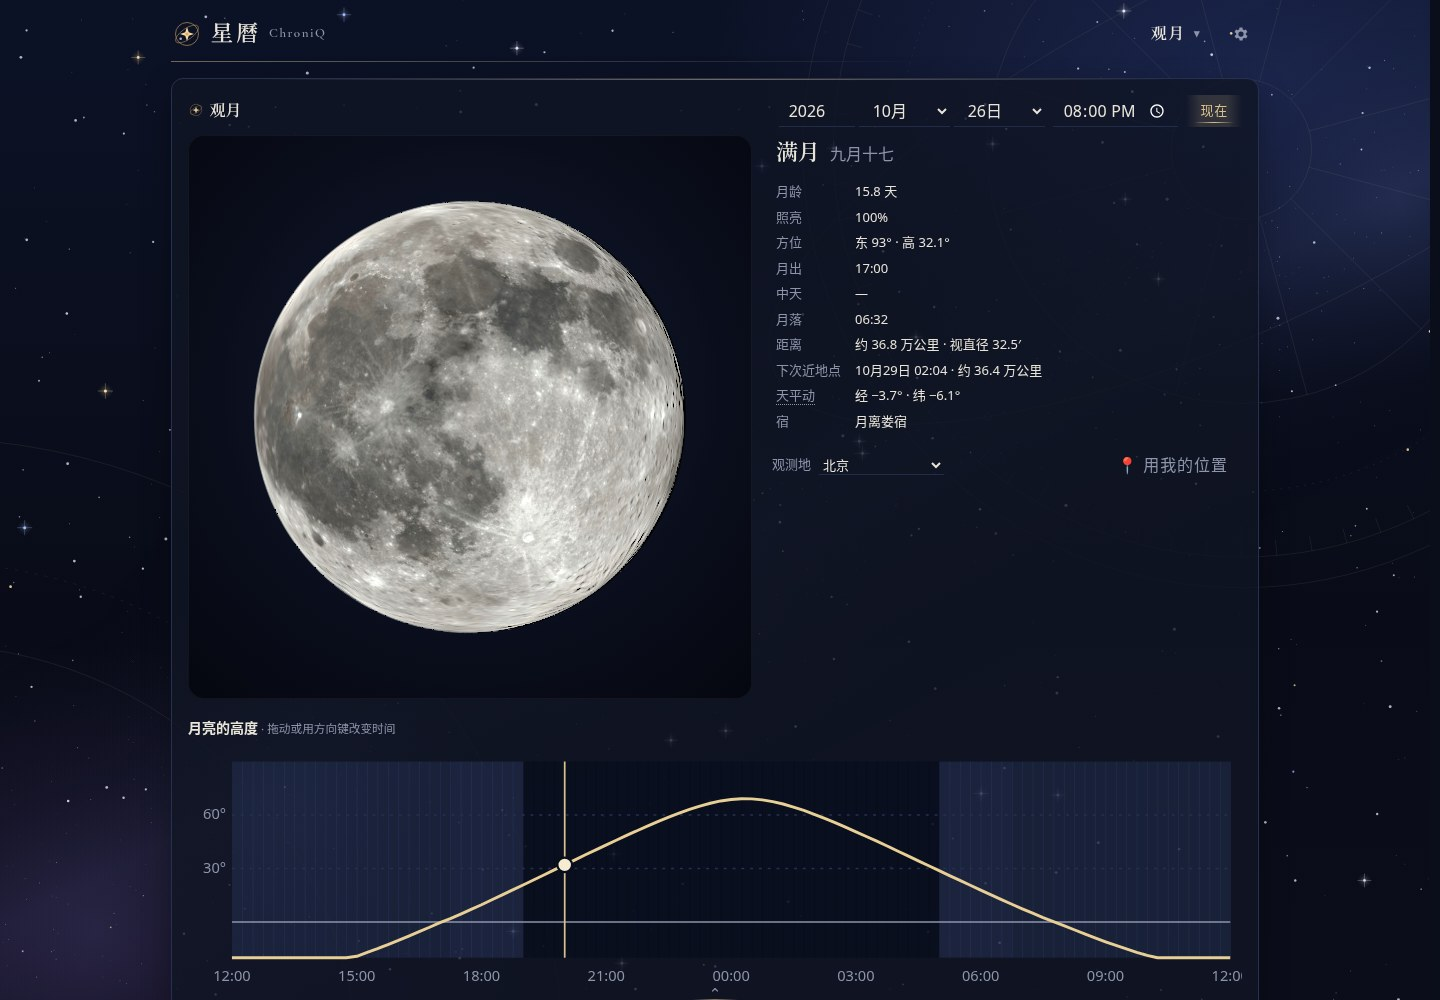
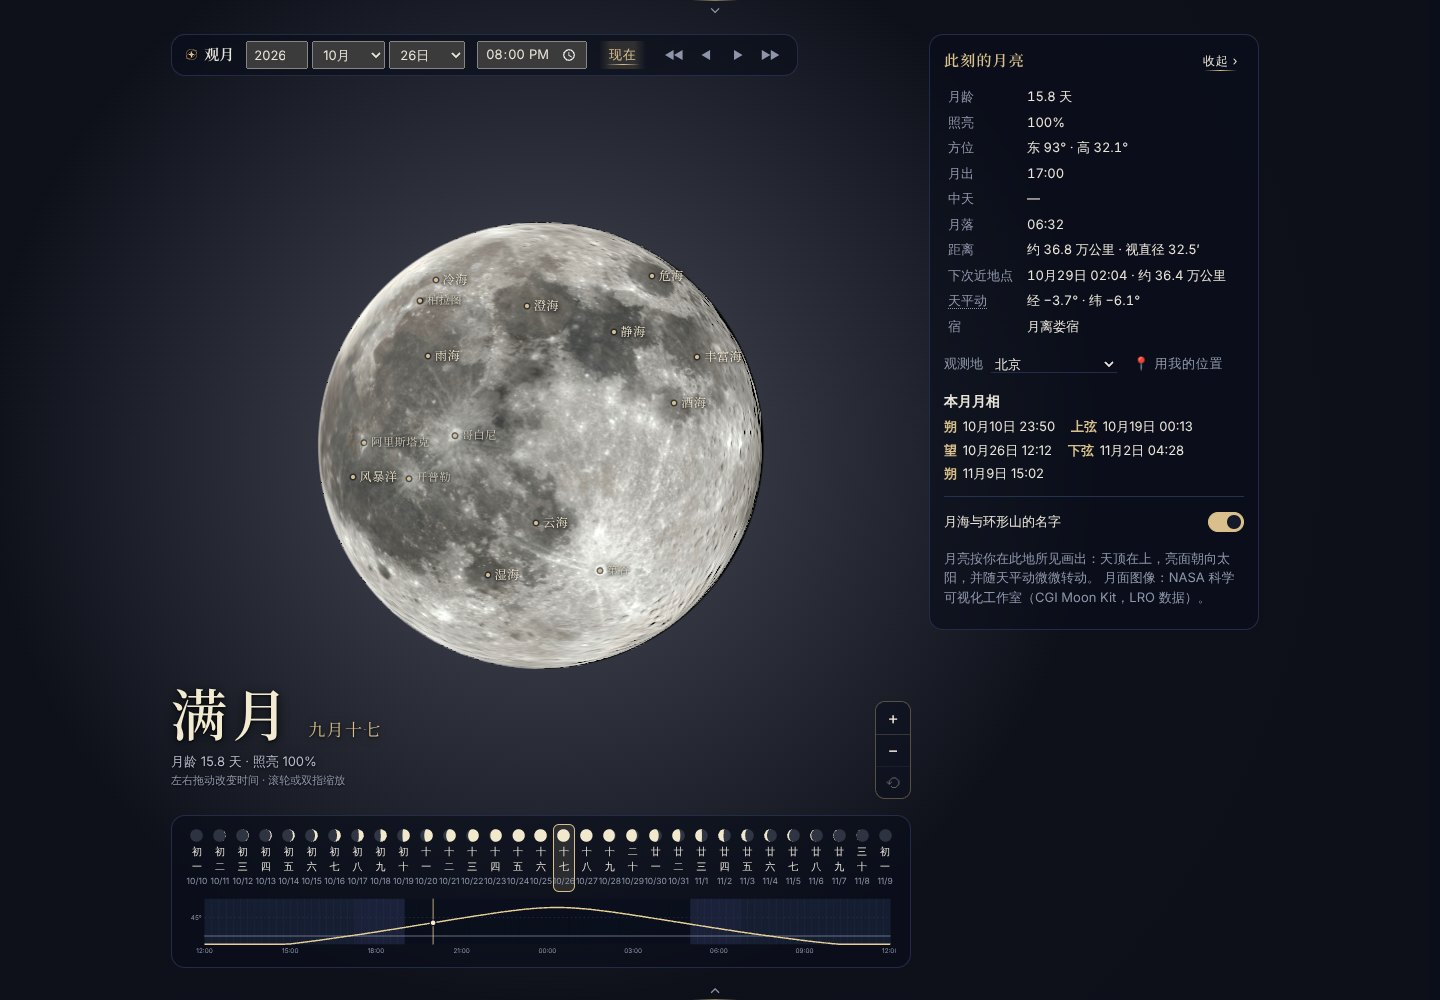
Docs: 观月 and 太阳系 over the whole screen; their README screenshots taken again
features.md describes the new pages (the Moon in its sky and its zoom,
the drag to change the time, the named seas and craters; 太阳系's
continuous zoom, playback bar, chosen planet's card and retrograde spans;
the phone's sheet), and that the top bar folds on all three full-screen
pages. Both Specs (F-05, F-06) and READMEs follow. moon.jpg and solar.jpg
are taken again as docs/images/README.md sets out.

Claude-Session: https://claude.ai/code/session_01MvmRSjvkQxUpLQepkGsN1z

diff --git a/docs/SPEC.en.md b/docs/SPEC.en.md
@@ -23,8 +23,8 @@ ChroniQ is a static web app for mobile and desktop browsers, combining calendar 
 | F-12 | Sky forecast | Eclipses, planetary oppositions and elongations, planetary conjunctions, major meteor showers and supermoons, filtered to what is visible from the observing place, with the best moment, direction and altitude; shown on the calendar and able to open the sky page at that moment; a coming-year `.ics` export (sky events, solar terms, the chosen chart's dates) |
 | F-03 | Sky | Bodies at a chosen time and coordinates; azimuth, altitude, magnitude and rise/set times; Western constellations, Chinese asterisms and 28 mansions; overhead/below-ground views, zoom, pan, time dragging and selection |
 | F-04 | Tracks | Daily tracks span 12 hours before and after the displayed instant, with dashed past segments, solid future segments and local whole-hour marks; historical tracks cover approximately 1, 3 or 12 months |
-| F-05 | Moon | Lunar globe, phase, libration and moonrise/moonset for the selected location |
-| F-06 | Solar system | Planetary orbits and positions, distances, light travel times, direct/retrograde motion and time playback; the page loads independently of the Sky interface |
+| F-05 | Moon | Full screen: the lunar globe in the real sky round the Moon at that moment and place (sky colour, stars, planets, ground and horizon), zoomed continuously from a telescope’s field to the eye’s, dragged to change the time; phase, libration, names of seas and craters, moonrise/moonset and the lunation’s phases |
+| F-06 | Solar system | Full screen: planetary orbits and positions, distances, light travel times, direct/retrograde motion and time playback; continuous zoom from the inner planets out to Pluto, dragged to change the date; the chosen planet’s line of sight, its path along the zodiac and its retrograde spans; the page loads independently of the Sky interface |
 | F-07 | Bazi | A plain-words reading generated by fixed rules; Four pillars, ten gods, symbolic stars, five elements, fortune onset and nested fortune periods; configurable apparent solar time, late-Zi-hour handling and other school rules |
 | F-08 | Ziwei Doushu | Twelve palaces, stars, four transformations, palace-stem transformations, multiple fortune layers and school settings |
 | F-09 | Western astrology | Natal charts, transits, progressions, synastry and composite charts; selectable house systems, nodes and related progression methods |
